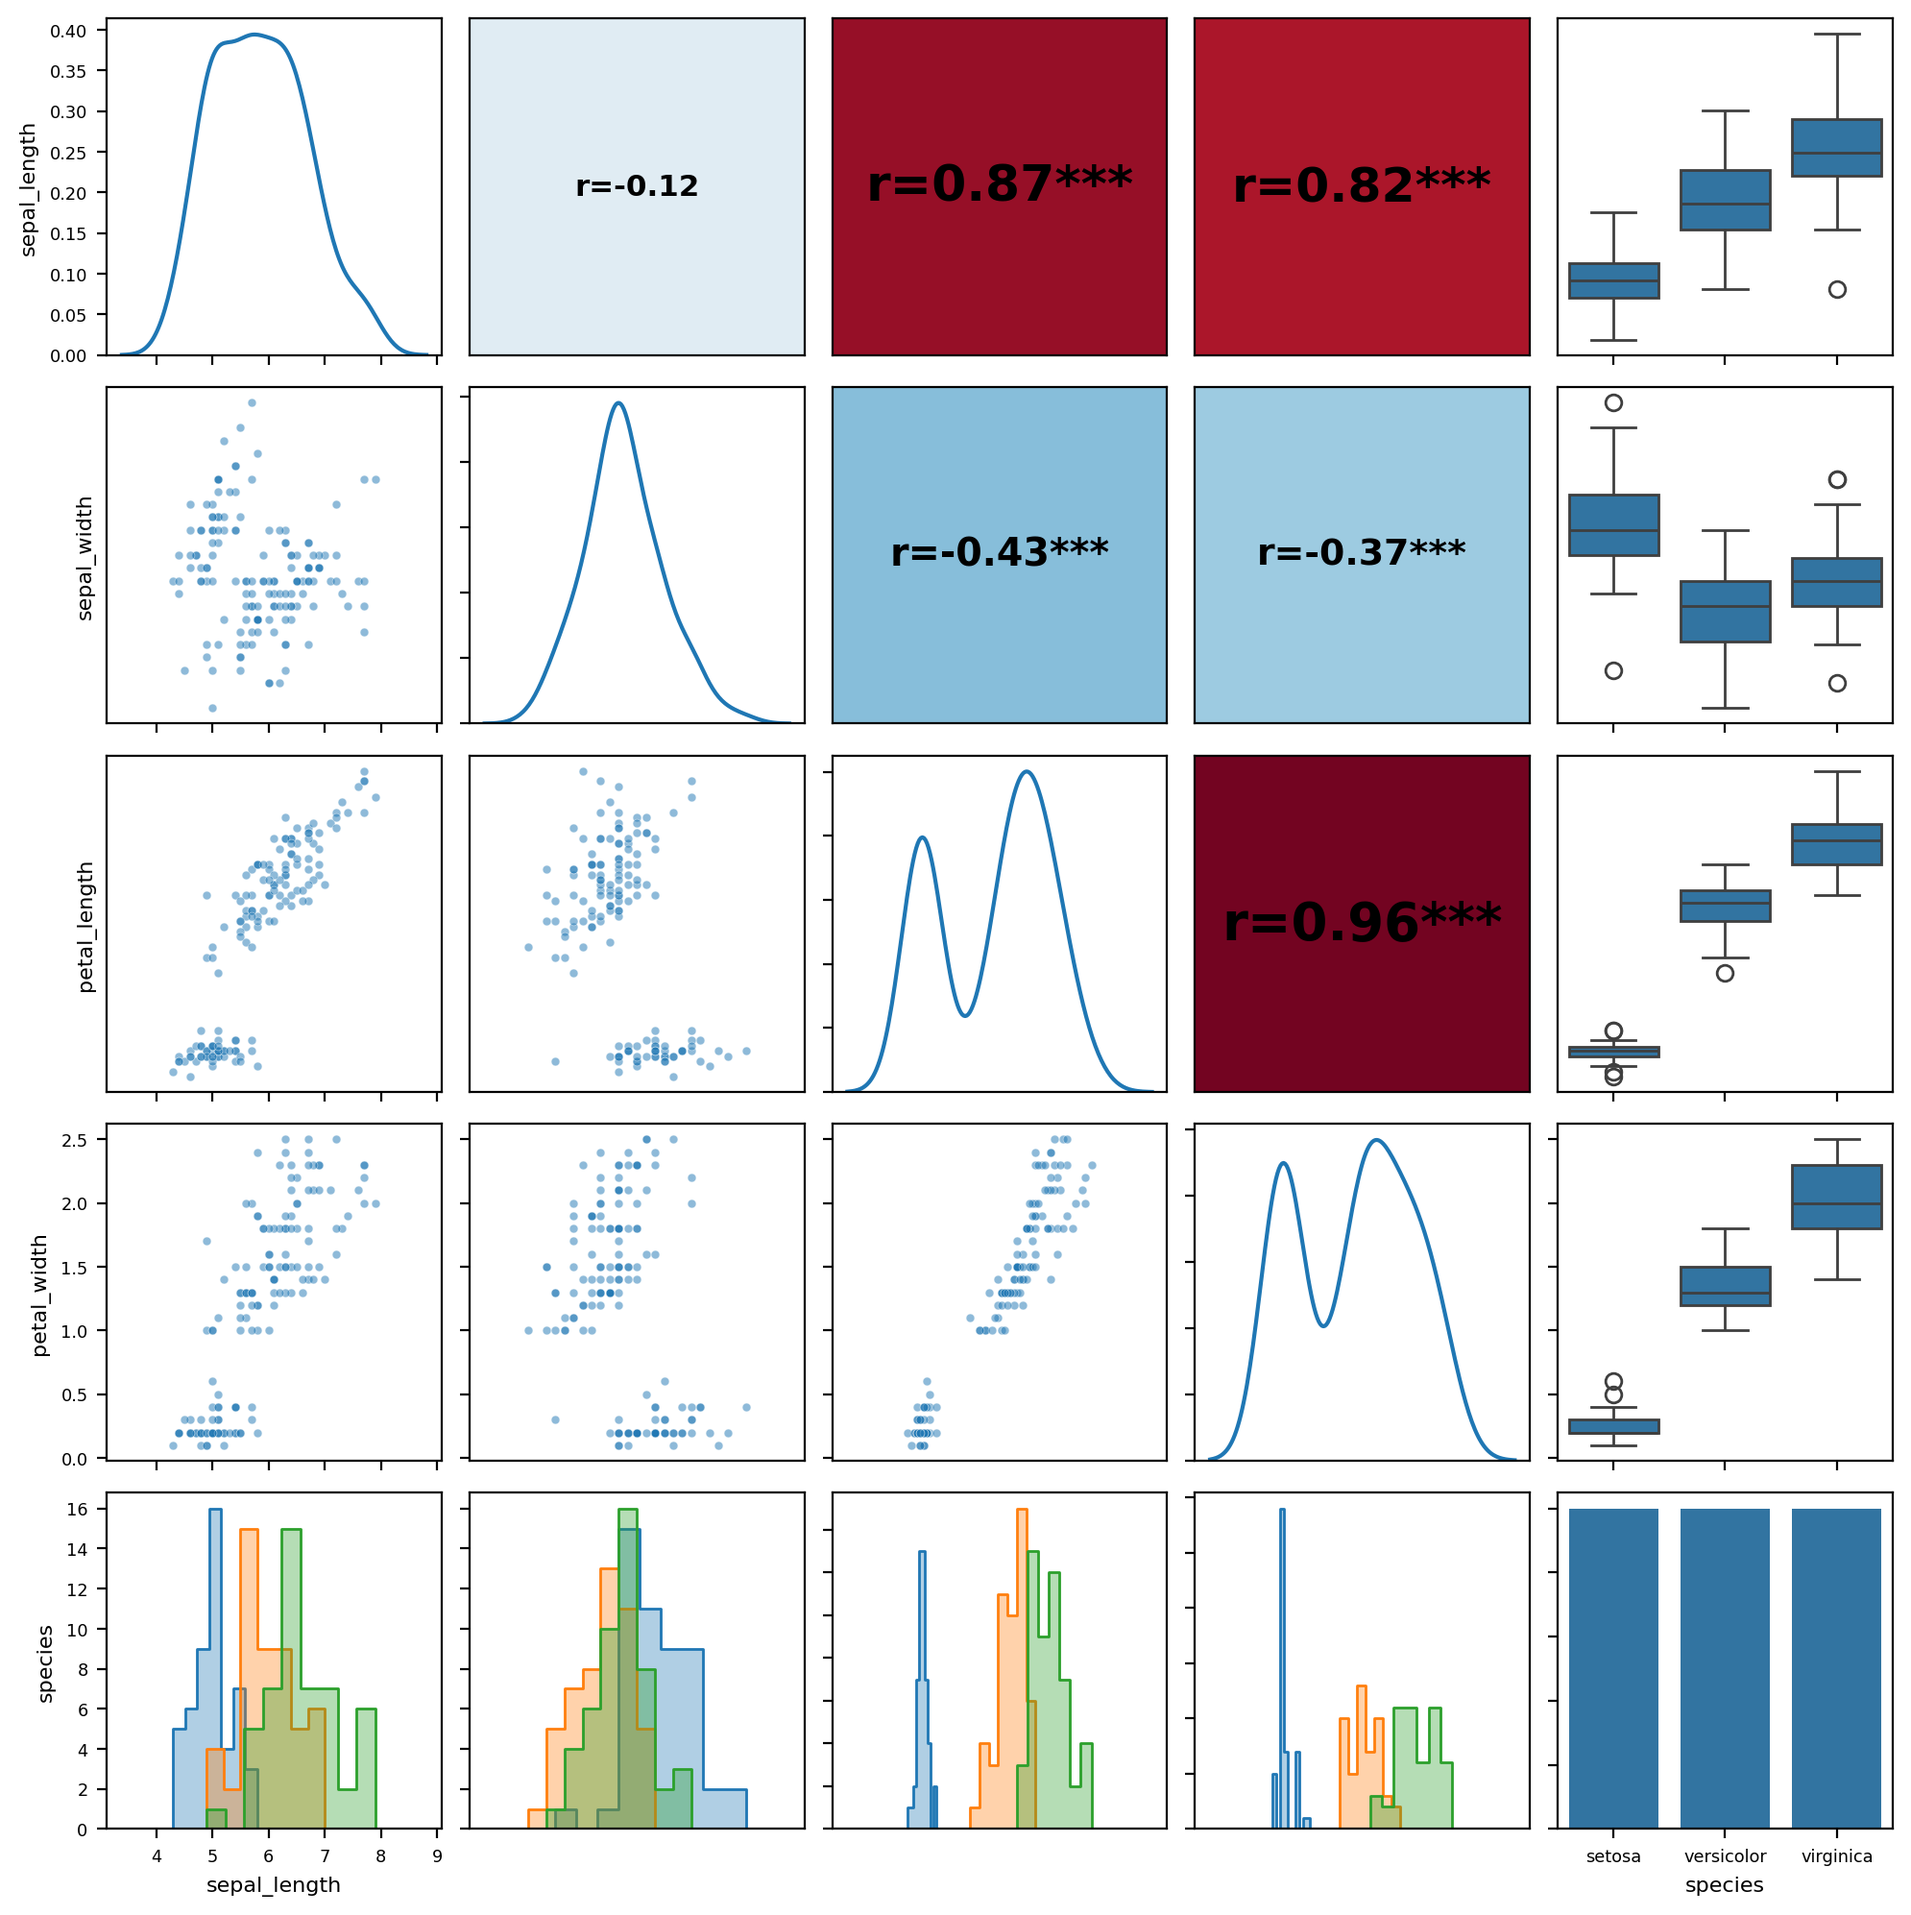
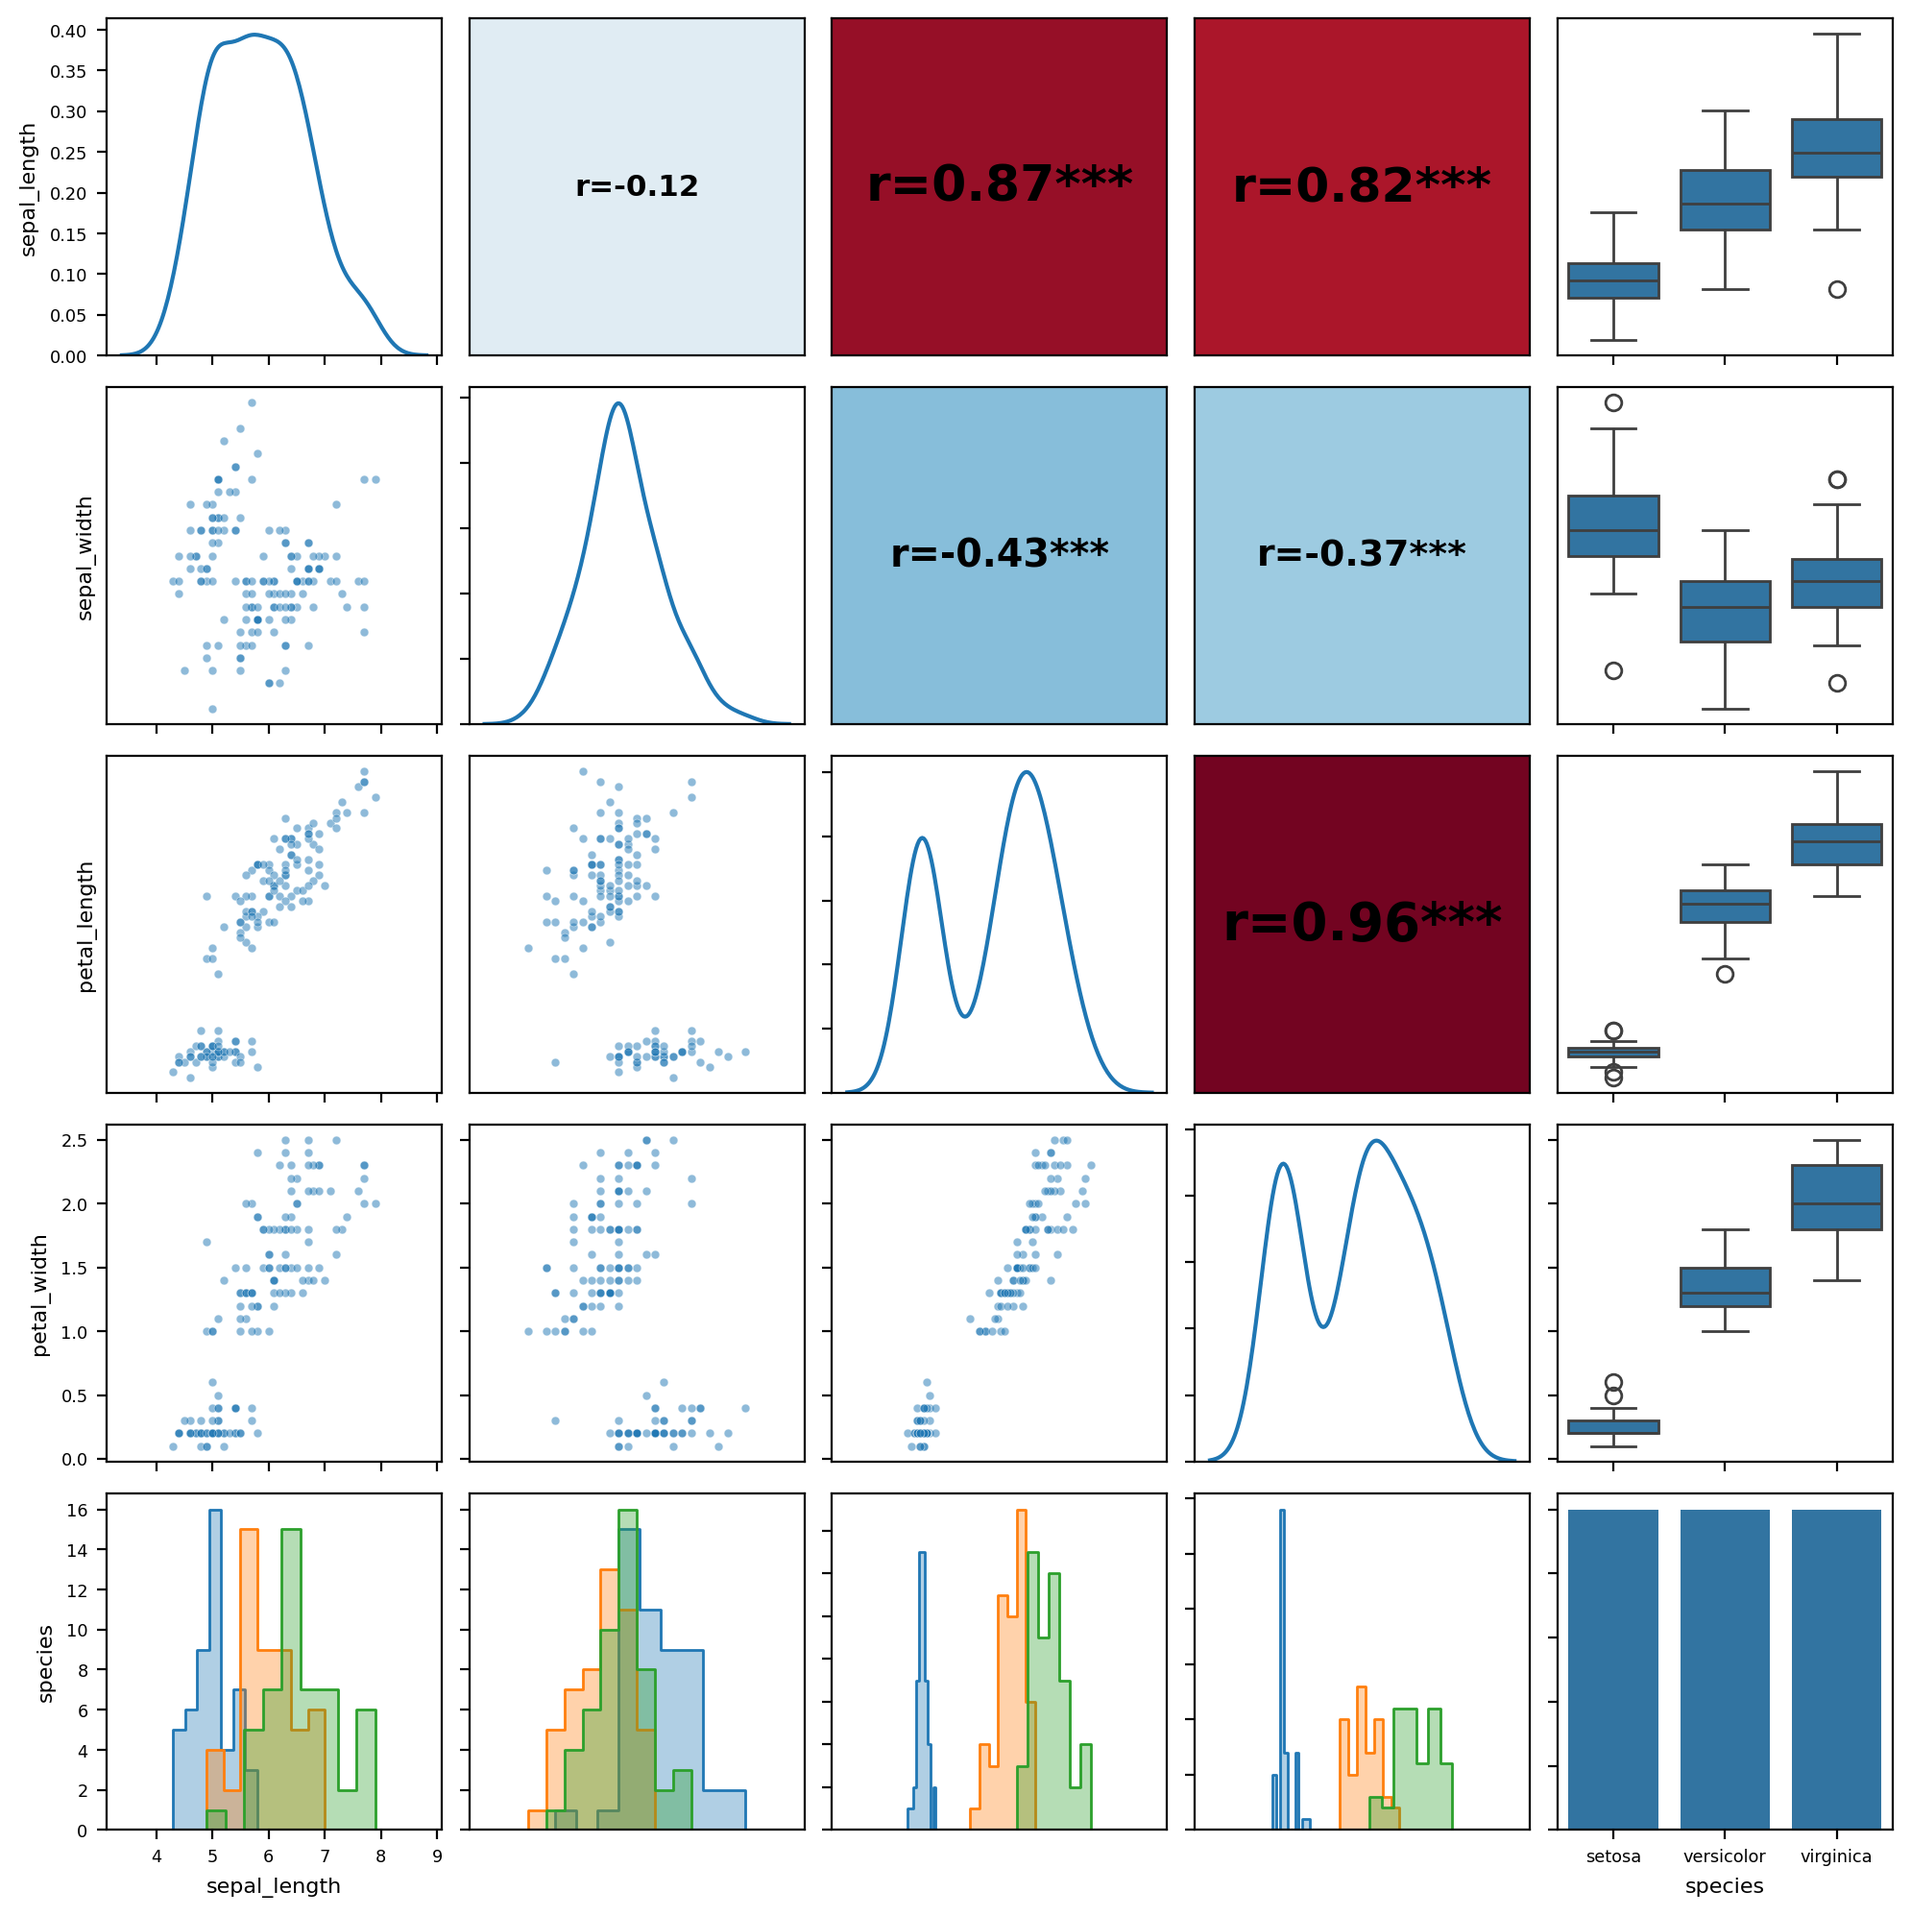
Fix README plot rendering by publishing all referenced example images and switching image links to absolute GitHub raw URLs for PyPI compatibility.
Made-with: Cursor

Changed region(s): [[0.8412, 0.5286, 0.8724, 0.5597], [0.3116, 0.4353, 0.3427, 0.4664], [0.1246, 0.4353, 0.1558, 0.4664]]

diff --git a/README.md b/README.md
@@ -60,7 +60,7 @@ The `examples/` folder contains reproducible scripts and output figures. Each pl
 
 ### 1) Iris baseline (`examples/01_basic_iris.py`)
 
-![Basic iris pair plot](examples/01_basic_iris.png)
+![Basic iris pair plot](https://raw.githubusercontent.com/paulhosch/mixpairs/main/examples/01_basic_iris.png)
 
 What this plot shows:
 - Pairwise relationships among classic iris measurements (`sepal_length`, `sepal_width`, `petal_length`, `petal_width`).
@@ -70,7 +70,7 @@ What this plot shows:
 
 ### 2) Mixed numeric/categorical tips data (`examples/02_mixed_types.py`)
 
-![Mixed types pair plot](examples/02_mixed_types.png)
+![Mixed types pair plot](https://raw.githubusercontent.com/paulhosch/mixpairs/main/examples/02_mixed_types.png)
 
 What this plot shows:
 - A mixed feature set: continuous (`total_bill`, `tip`, `size`) and categorical (`sex`, `day`) with `hue="time"`.
@@ -80,7 +80,7 @@ What this plot shows:
 
 ### 3) Custom renderer example (`examples/03_custom_renderers.py`)
 
-![Custom renderers pair plot](examples/03_custom_renderers.png)
+![Custom renderers pair plot](https://raw.githubusercontent.com/paulhosch/mixpairs/main/examples/03_custom_renderers.png)
 
 What this plot shows:
 - The lower triangle uses a custom hexbin renderer, replacing default scatter panels.
@@ -90,7 +90,7 @@ What this plot shows:
 
 ### 4) Corner mode with class coloring (`examples/04_corner_mode.py`)
 
-![Corner mode pair plot](examples/04_corner_mode.png)
+![Corner mode pair plot](https://raw.githubusercontent.com/paulhosch/mixpairs/main/examples/04_corner_mode.png)
 
 What this plot shows:
 - `corner=True` displays only the lower triangle and diagonal, reducing visual duplication.
@@ -100,7 +100,7 @@ What this plot shows:
 
 ### 5) Large mixed grid stress test (`examples/05_large_grid.py`)
 
-![Large grid pair plot](examples/05_large_grid.png)
+![Large grid pair plot](https://raw.githubusercontent.com/paulhosch/mixpairs/main/examples/05_large_grid.png)
 
 What this plot shows:
 - Eight continuous variables plus two categorical variables create a high-dimensional mixed grid.
